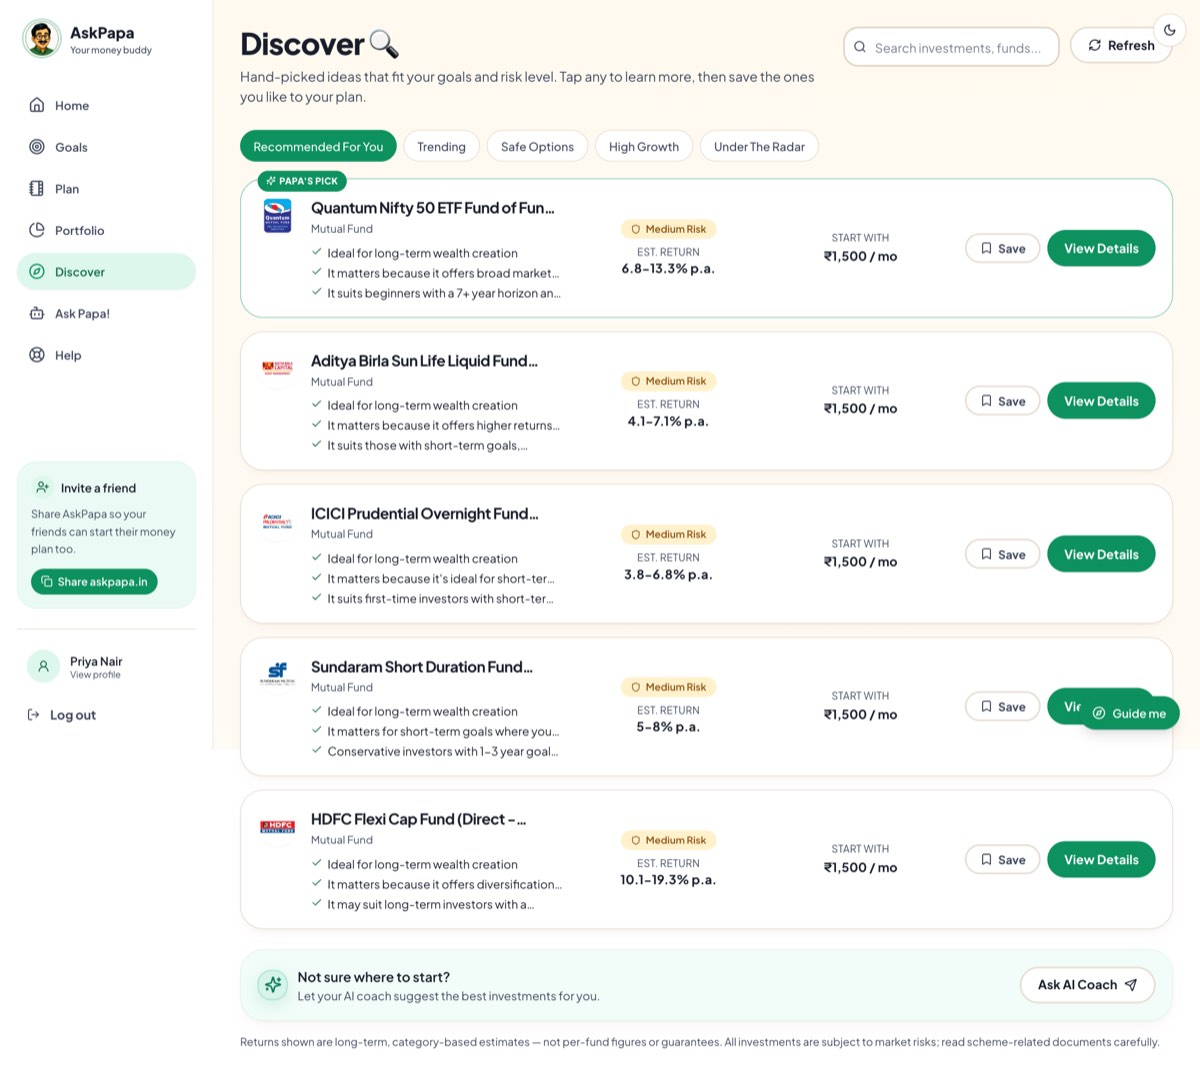
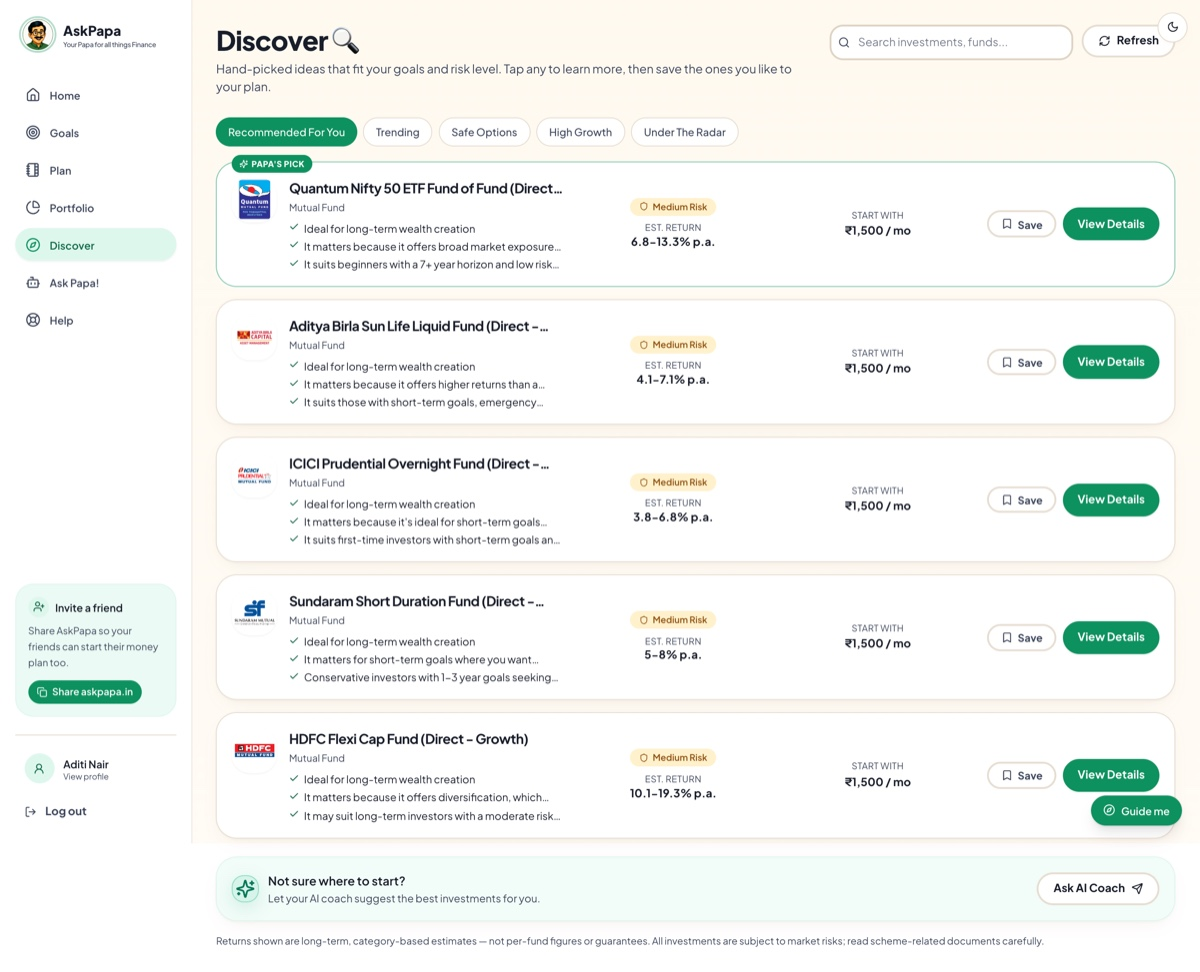
Article: onboarding shot + product collage, zone-based architecture, punchier takeaways
- Rework 'look and feel' into an onboarding screenshot plus a six-panel
  product collage (dashboard, goals, plan, portfolio, discover, Ask Papa)
- Update the architecture section to the three-zone diagram and blurb
- Simpler, catchier key takeaways
- Recapture the fresher UAT screenshots as the renamed 'Aditi' persona

diff --git a/docs/medium-article/askpapa-article.md b/docs/medium-article/askpapa-article.md
@@ -26,35 +26,29 @@ He is live at [askpapa.in](https://www.askpapa.in).
 
 ## The look and feel
 
-![The AskPapa dashboard](images/dashboard.jpg)
+The experience starts before you have typed a single number. Signing up is not a form, it is a short interview with Papa.
 
-This is the dashboard: how much you can invest this month, a financial health score, your goals, and the two or three things to do first. No candlestick charts, no ticker tape, no jargon. And in the corner, Papa's verdict on your 62 out of 100:
+![Onboarding: a note from Papa, not a form](images/onboarding.jpg)
 
-> "Could be worse. Could also be much, much better. Your call."
+Every screen of that interview carries Papa's voice and, crucially, a reason for each question: "I'm only asking because your money behaves differently from mine." Ten short sections, about five minutes, auto saved, pause anytime. Every word a beginner could stumble on is explained in plain language, so EPF becomes the retirement money your employer sets aside rather than assumed knowledge. Instead of typing your holdings you upload the statement your broker already gives you and Papa reads it. And wherever a question could freeze you, there is a "Not sure?" button: ask someone what their dream trip costs and they blank, so tap it and Papa asks what a real person would ask (where to, how many of you, how many days) and suggests a realistic figure. In early testing his guess for a user's Sri Lanka trip was ₹12,00,000, which is bonkers; grounding the estimate in per person per day math and letting the AI only nudge within a sane band brought it to ₹1,50,000. The privacy promise is stated right there on the welcome screen too: your money details are locked with your password before they are saved, unreadable even to the team behind AskPapa. More on both of those below.
 
-Finance apps usually fail at engagement because they inform without ever nudging. I designed AskPapa around a handful of deliberate engagement choices instead.
+Then the product itself. Six screens, one personality, and not a single candlestick chart in sight.
 
-**One personality, everywhere.** Papa has thirteen moods and shows up on every screen: reacting while you fill onboarding forms, peeking in from the edge with commentary, celebrating when you finish setup. The persona is also a writing constraint. Every sentence in the app must pass one test: would a caring, slightly sarcastic dad say this? That single rule killed every piece of jargon in the product.
+![The whole product in one view: dashboard, goals, plan, portfolio, discover, and Ask Papa](images/collage-product.jpg)
 
-**Onboarding that feels like a chat, not a form.** Signing up is a friendly interview about your life. Every field a beginner could stumble on carries a plain language hint. EPF is explained as the retirement money your employer sets aside, not assumed knowledge. Instead of typing your holdings, you upload the statement your broker already gives you and Papa reads it. And wherever a question could freeze you, there is a "Not sure?" button. Ask someone what their dream trip costs and they blank; tap "Not sure?" and Papa asks the questions a person would ask (where to, how many of you, how many days) and suggests a realistic figure. In early testing his guess for a user's Sri Lanka trip was ₹12,00,000, which is bonkers. The fix, grounding his estimate in per person per day math and letting the AI only adjust within a sane band, brought it to ₹1,50,000. More on that discipline below.
+**Dashboard.** How much you can invest this month, a financial health score, your goals, and the two or three things to do first. In the corner, Papa's blunt verdict on Aditi's 62 out of 100: "Could be worse. Could also be much, much better. Your call."
 
-**Every goal gets a reality check.** A goal that is off track does not just get a red badge. It gets three concrete fixes with their consequences: save more per month, extend the deadline, or accept more risk. You pick one and the plan updates. Agency, not guilt.
+**Goals.** Each goal, where it stands, and exactly what it takes to get there. A goal that is off track does not just get a red badge, it gets three concrete fixes with their consequences: save more per month, extend the deadline, or accept more risk. You pick one and the plan updates. Agency, not guilt.
 
-![Goals with reality checks and fixes](images/goals.jpg)
+**Plan.** Everything compressed into three actions a month, sized to the money you can actually spare, each with its reason and what happens if you start it. Tick one off and the progress bar moves. Nobody rebuilds their financial life in a weekend, but almost anyone can do three things a month. Momentum is the feature.
 
-**Three actions a month, not thirty.** The Plan page compresses everything into three actions sized to the money you can actually spare, each with its reason and what happens if you start it. Tick one off and the progress bar moves. Nobody rebuilds their financial life in a weekend; almost anyone can do three things a month. Momentum is the feature.
+**Portfolio.** Net worth, where your money sits today, and what it becomes if you simply stay the course. Watching that projection line climb is its own kind of nudge.
 
-![Your money plan](images/plan.jpg)
+**Discover.** Specific instruments, each card explaining itself: why this fits you, its risk band, a realistic return range, and a starting amount, often ₹500 a month. A Papa's Pick sits on top and honest fine print at the bottom. People do not act because a score is high, they act when they understand why.
 
-**Reasons on every card.** The Discover page recommends specific instruments, and each card explains itself: why this fits you, its risk band, a realistic return range, and a starting amount, often ₹500 a month. There is a Papa's Pick on top and honest fine print at the bottom. People do not act because a score is high; they act when they understand why.
+**Ask Papa.** A chat that answers anything with your real numbers in mind and the last conversation remembered. Ask "Am I saving enough?" and you do not get a lecture, you get Papa's verdict, your actual income, commitments and surplus laid out, and a specific target to aim for.
 
-![Discover recommendations](images/discover.jpg)
-
-**The whole picture in one place.** Net worth, where your money sits, and what it becomes if you simply stay the course. Watching the projection line climb is its own nudge.
-
-![Portfolio view](images/portfolio.jpg)
-
-There is also a guided tour where Papa walks you through the app, and a chat where he answers anything, with your real numbers in mind and the previous conversation remembered. First time users get walked in; returning users get pulled back by having exactly three clear things to do.
+Running underneath all six is the same set of deliberate engagement choices. One personality on every screen, because Papa has thirteen moods and reacts as you go. The persona doubles as a writing constraint: every sentence must pass one test, would a caring, slightly sarcastic dad say this, and that single rule killed every piece of jargon in the product. First time users get walked in by a guided tour; returning users get pulled back by having exactly three clear things to do.
 
 ## How I built it: free tiers all the way down
 
@@ -69,9 +63,17 @@ Here is my favourite part of the story. The total amount of money this app has c
 
 The whole system fits in one picture:
 
-![The complete AskPapa architecture](images/diagram-architecture.png)
+![The complete AskPapa architecture: the quant decides, the LLM explains](images/diagram-architecture.png)
 
-Read it in three lanes. On the left, a research layer runs in the background: market data APIs, news and regulator RSS feeds, and yes, Reddit, because Indian investing subreddits are where retail sentiment actually lives. Everything ingested goes through a financial NLP pass (entities, signals, sentiment, contradiction detection), gets a source credibility score, and lands in an evidence store where every signal stays linked to where it came from. In the middle, a multi agent recommendation pipeline turns that evidence plus your profile into a plan in seven steps: from a market regime agent, through screening and a category planner that gates what fits your life specifically, to a consensus pass where multiple agents must agree before an idea survives, and finally an explainability agent that attaches reasons, risks and confidence to every card. On the right, the chat service builds context from your real numbers and drafts a complete answer before any AI touches it.
+Read it as three zones, left to right.
+
+**Zone 1, data ingestion and enrichment,** runs quietly in the background. Free data sources feed in: market data APIs (AMFI, Yahoo Finance, CoinGecko), news and regulator RSS (RBI, SEBI, NSE), and investor sentiment from Indian investing communities on Reddit, because that is where retail opinion actually lives. Everything ingested passes through content extraction and a financial NLP layer (entities, sentiment, contradiction detection), gets a source credibility score, and lands in an evidence and research store where every signal stays linked to where it came from and is reusable across users.
+
+**Zone 2, core intelligence,** is the multi agent recommendation pipeline, and this is where the quant decides. Seven stages take your profile plus that evidence and turn them into a plan: profile and goals, market regime, screening and alpha discovery, a category planner that gates what actually fits your life, portfolio construction, a fusion and consensus step where multiple agents must agree before an idea survives, and finally an explainability agent that attaches reasons, risks and confidence to every card.
+
+**Zone 3, interface and delivery,** is what you touch. The Next.js frontend on Vercel talks to a single FastAPI worker behind Caddy on one small AWS EC2 box. Ask Papa chat builds context from your real numbers, goals and latest recommendations, drafts a complete deterministic answer, and only then hands it over to be voiced. Everything sensitive lands in an encrypted SQLite database, an adaptive memory layer watches for drift and triggers reassessments, Resend sends the OTP and reset emails, and the GoDaddy domain, the one thing I paid for, points at all of it.
+
+The two thick green arrows in the diagram are the entire thesis: the explainability agent and the chat both send the language model prose only, never decisions.
 
 Three ideas make this tiny footprint workable.
 
@@ -83,17 +85,15 @@ Three ideas make this tiny footprint workable.
 
 ## Key takeaways from the build
 
-**Meet people at zero effort.** My generation will not do the research, and shaming them does not change that. The product that wins is the one that removes the research, not the one that assigns it as homework.
+**Start before you have a plan.** I opened my laptop to try vibe coding with no idea what to build. A month later it was a live product. Motion beats intention.
 
-**Trust needs a face.** The same advice lands differently when it comes from someone you would trust. Papa works because the first financial voice in most Indian lives is a father figure. Borrow trust that already exists.
+**Be your own first user.** I built AskPapa because my own money was a mess, so I always knew what to fix next. Solve your problem well and you have probably solved a stranger's too.
 
-**Personality is a feature with an architecture.** Papa's voice needed prompt discipline, a post processing layer, and a fallback plan. Charm that collapses when the model hiccups is not charm.
+**One good character beats a hundred features.** People did not warm to a finance app, they warmed to a dad who explains. A personality people trust carries more than any feature list.
 
-**LLMs are a voice layer, not a brain.** The moment I stopped asking the model to think and started asking it to speak, quality went up, costs went down, and failures stopped mattering.
+**Perfection is what shipped it.** I only meant to try something for a weekend. Refusing to leave it "good enough" is what turned a toy into a product.
 
-**Explanations convert.** Users act when the app says here is why, here is what could go wrong, and here is what to do about it. The reasons on every card took real effort and they are the thing users mention most.
-
-**Constraints are a gift.** One small VM, a free model tier, and a zero budget forced an architecture that is simpler, faster, and more resilient than the one I would have built with money.
+**Starting was the only real cost.** A domain name was the only thing I paid for. The tools are free and the models are free, so the rest was just showing up after work.
 
 If you want to see Papa in action, he is at [askpapa.in](https://www.askpapa.in), waiting to judge your emergency fund. Lovingly, of course.
 

diff --git a/docs/medium-article/PUBLISHING.md b/docs/medium-article/PUBLISHING.md
@@ -3,9 +3,8 @@
 Everything you need is in this folder:
 
 - `askpapa-article.md` — the article text with image markers.
-- `images/` — 5 app screenshots, the single architecture diagram, hero art, and Papa.
-- `diagrams/architecture.mmd` — editable Mermaid source for the diagram. Re-render with:
-  `npx -y @mermaid-js/mermaid-cli -i diagrams/architecture.mmd -o images/diagram-architecture.png -b white -w 1700 --scale 2`
+- `images/` — one onboarding shot, a six-panel product collage (`collage-product.jpg`), the architecture diagram, hero art, and Papa.
+- `images/diagram-architecture.png` — the current architecture diagram (exported image, "the quant decides, the LLM explains"). The older Mermaid source in `diagrams/architecture.mmd` and its `diagram-architecture.svg` / `@2x.png` renders are superseded; safe to delete.
 
 ## Steps
 
@@ -17,15 +16,12 @@ Everything you need is in this folder:
    |---|------|----------------|
    | 1 | `images/hero.png` | Directly under the subtitle (also the cover) |
    | 2 | `images/papa-laugh.png` | End of "Why I built this" |
-   | 3 | `images/dashboard.jpg` | Top of "The look and feel" |
-   | 4 | `images/goals.jpg` | After "Every goal gets a reality check" |
-   | 5 | `images/plan.jpg` | After "Three actions a month" |
-   | 6 | `images/discover.jpg` | After "Reasons on every card" |
-   | 7 | `images/portfolio.jpg` | After "The whole picture in one place" |
-   | 8 | `images/diagram-architecture.png` | "How I built it", after the free tier list |
+   | 3 | `images/onboarding.jpg` | Top of "The look and feel", after the opening line |
+   | 4 | `images/collage-product.jpg` | After "not a single candlestick chart in sight", before the per-screen blurbs |
+   | 5 | `images/diagram-architecture.png` | "How I built it", after the free tier list |
 
-4. Add captions to the screenshots (Medium shows them small and grey), e.g. "The dashboard: one screen, a verdict, and a plan."
-5. Title and subtitle are the first two lines of the article. Set the **cover image** to `hero.png` (or `dashboard.jpg` if you prefer a product shot in previews).
+4. Add captions (Medium shows them small and grey), e.g. "Onboarding is an interview, not a form." and "Six screens, one personality." for the collage.
+5. Title and subtitle are the first two lines of the article. Set the **cover image** to `hero.png` (or `collage-product.jpg` if you prefer a product shot in previews).
 
 ## Suggested metadata
 
@@ -35,6 +31,6 @@ Everything you need is in this folder:
 
 ## Before you hit publish
 
-- The screenshots use synthetic persona data (Priya Nair, Rohit Malhotra, etc.) — safe to publish. They show the older "Your money buddy" tagline in the sidebar; recapture later if you want current branding.
+- Every screenshot in the article uses synthetic persona data (Aditi Nair) and current branding, freshly captured, so the whole set is consistent and safe to publish.
 - Nothing in the article exposes scoring weights, prompts, secrets, server addresses, or key derivation details. Keep it that way if you edit.
 - Read the article once out loud. Anything that does not sound like you, change.

diff --git a/docs/uat-2026-07-04/report.md b/docs/uat-2026-07-04/report.md
@@ -7,7 +7,7 @@ Full user-acceptance test with 5 mock users spanning very different financial li
 | Persona | Profile | Income /mo | True surplus /mo | Net worth | Goals |
 |---|---|---|---|---|---|
 | Aarav Joshi (student, 21, Pune) | Part-time + freelance, no loans, ₹5k crypto | ₹12,000 | ₹5,100 | ₹30,000 | Travel, Higher education |
-| Priya Nair (fresher SWE, 24, Bengaluru) | ₹18k rent, education loan EMI ₹8,667, index-fund SIP | ₹58,000 | ₹15,333 | ₹1.3L | Higher education, Travel |
+| Aditi Nair (fresher SWE, 24, Bengaluru) | ₹18k rent, education loan EMI ₹8,667, index-fund SIP | ₹58,000 | ₹15,333 | ₹1.3L | Higher education, Travel |
 | Rohit Malhotra (senior exec, 36, Gurugram) | Home + car loan EMIs ₹45k, ₹1.19Cr assets | ₹1,95,000 | ₹91,722 | ₹1.19Cr | Child education, Retirement, Debt |
 | Farhan Sheikh (business owner, 45, Mumbai) | Variable income, business loan, ₹3.25Cr assets | ₹4,00,000 | ₹2,64,667 | ₹3.25Cr | Business, Marriage, Retirement |
 | Meera Krishnan (professor, 53, Chennai) | No loans, conservative, ₹2.38Cr assets | ₹1,60,000 | ₹98,500 | ₹2.38Cr | Retirement, Marriage, Travel |
@@ -33,7 +33,7 @@ Full user-acceptance test with 5 mock users spanning very different financial li
 ## Defects found → fixed → re-verified
 
 ### P0 — Cross-user data leak on the dashboard
-A hydration race: on a cold load the dashboard fetched `latestProfile` **before** the persisted session loaded, got the **globally last-saved profile** (another user's), displayed it, and then **persisted it into the current user's session**. Screenshot evidence showed Priya's sidebar with Meera's entire finances.
+A hydration race: on a cold load the dashboard fetched `latestProfile` **before** the persisted session loaded, got the **globally last-saved profile** (another user's), displayed it, and then **persisted it into the current user's session**. Screenshot evidence showed Aditi's sidebar with Meera's entire finances.
 **Fix:** `hasHydrated` gate in the auth store (`onRehydrateStorage`) + dashboard effect waits for it; backend `/onboarding/latest` without a token now only returns guest profiles, never account-owned ones.
 
 ### P0 — Cross-user commitment leak in the portfolio
